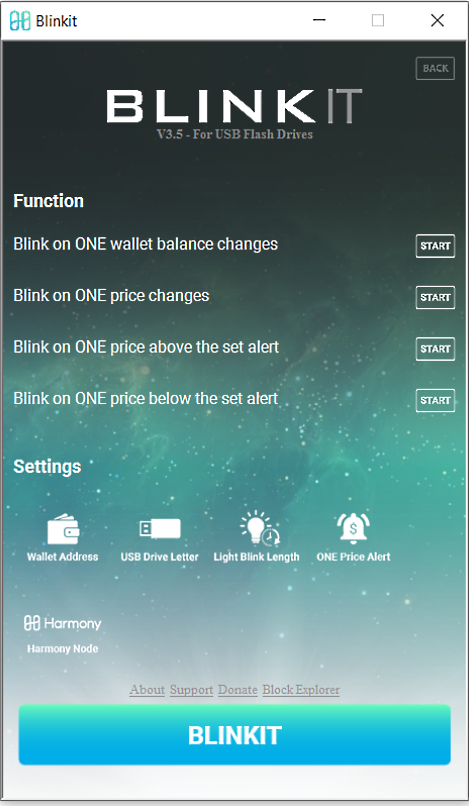
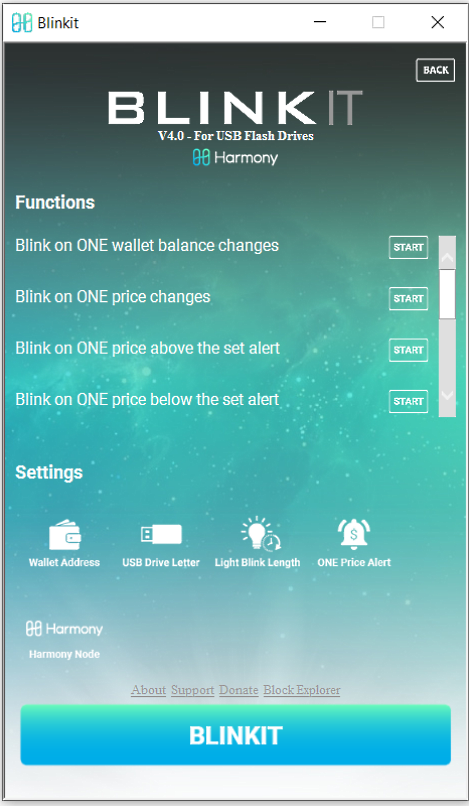
Website update
Website update

diff --git a/docs/index.html b/docs/index.html
@@ -55,6 +55,9 @@ https://github.com/techtek/Blinkit
 				<li class="nav-item">
                   <a class="nav-link" href="#Devices">Supported Devices</a>
 				</li>
+				<li class="nav-item">
+                  <a class="nav-link" href="#Donate">Donate</a>
+				</li>				
                 <li class="nav-item">
                   <a class="nav-link" href="#Contact">Contact</a>
                 </li>
@@ -139,7 +142,7 @@ https://github.com/techtek/Blinkit
                   <div class="icon text-white bg-success mr-5"><i class="fa fa-th"></i></div>
                   <div>
                       <h5>Blockchains</h5>
-                      <p>Currently Blinkit is available for 3 different blockchains: Steem, Hive, and the latest is developed for the Harmony blockchain. </p>
+                      <p>Blinkit is currently available for 3 different blockchains: Steem, Hive, and the latest version is developed specifically for the Harmony blockchain. </p>
                   </div>
                 </div>
               </div>
@@ -177,7 +180,7 @@ https://github.com/techtek/Blinkit
 	   
       <div class="blog section section-invert py-4">
         <h3 class="section-title text-center m-5">Supported Devices</h3>
-		<p class="text-muted col-md-6 text-center mx-auto">These devices can be blinked with Blinkit, more devices will be added later</p>
+		<p class="text-muted col-md-6 text-center mx-auto">These devices can be blinked with Blinkit, more devices will be added.</p>
         <div class="container">
           <div class="py-4">
             <div class="row">
@@ -189,7 +192,7 @@ https://github.com/techtek/Blinkit
                     <img class="card-img-top" src="images/common/usbflashdrive.jpg" alt="Card image cap">
                     <div class="card-body">
                       <h4 class="card-title">USB Flash Drives</h4>
-                      <p class="card-text">Any USB flash drive that have a status LED, independent of its brand or model can be used, most preferable will be a USB stick with a bright LED and a small form factor.</p>
+                      <p class="card-text">Any USB flash drive that have a status LED can be used, independent of its brand or model, most preferable will be a USB stick with a bright LED and a small form factor.</p>
 					  <p></p>
                       <!-- / <a class="btn btn-outline-success btn-pill" href="https://steemit.com/blinkit/@techtek/blinkit-or-usb-flash-notifications" target="_blank" >Read on Steemit &rarr;</a>  -->
                     </div>
@@ -204,7 +207,7 @@ https://github.com/techtek/Blinkit
                     <img class="card-img-top" src="images/common/logitech.jpg" alt="Card image cap">
                     <div class="card-body">
                       <h4 class="card-title">Keyboards</h4>
-                      <p class="card-text">Most keyboards and laptops have a num, scroll, and caps lock LED status light,independent of brand and model, Blinkit can blink them when blockchain actions are detected. </p>
+                      <p class="card-text">Most keyboards and laptops have a num, scroll, and caps lock LED status light, Blinkit can blink them independent of brand and model when blockchain actions are detected. </p>
                       		  <p></p>
 					  <!-- / <a class="btn btn-outline-success btn-pill" href="https://steemit.com/utopian-io/@flash4yard/blinkit-v2-3-or-blink-logitech-devices-on-steem-actions-backend" target="_blank" >Read on Steemit &rarr;</a>  -->
                     </div>
@@ -279,10 +282,10 @@ https://github.com/techtek/Blinkit
                         <img src="images/app-promo/blockchainharmony.png" class="w-100" alt="Testimonial Avatar" />
                     </div>
                     <h5 class="mb-1">Blinkit for Harmony</h5>
-                    <span class="text-muted d-block mb-2">Blinkit v3.8 | Windows 10 | GUI + CLI</span>
-					<span class="text-muted d-block mb-2">Features: Blink on ONE wallet balance changes, ONE price changes and ONE price alerts</span>
+                    <span class="text-muted d-block mb-2">Blinkit v4.0 | Windows 10 | GUI + CLI</span>
+					<span class="text-muted d-block mb-2">Features: Blink on ONE wallet balance changes, ONE price changes and alerts, epoch and more.</span>
 					<span class="text-muted d-block mb-2">Supported devices: USB flash drives, keyboard lights, smarthome devices (Tasmota)</span>
-					<span class="text-muted d-block mb-2"> <a href="">Release info</a></span>
+					<span class="text-muted d-block mb-2"> <a href="https://devpost.com/software/blinkit-ephtol">Release info</a></span>
 					<p></p>
                     <a class="btn btn-outline-success btn-pill" href="https://github.com/techtek/BlinkitHarmony/archive/master.zip" target="_blank" >Download &rarr;</a>					
                 </div>
@@ -302,10 +305,12 @@ https://github.com/techtek/Blinkit
 	 	<!-- / About  Section -->
       <div class="subscribe section bg-dark py-4">
         <h3 class="section-title text-center text-white m-5">About</h3>
-        <p class="text-muted col-md-6 text-center mx-auto">The Blinkit project Started in February 2018 on the Steem blockchain, it goals are to notify you with light and sound when blockchain action are detected. The supported devices are widely available, and the software is opensource and is made with a combination of batch scripts fo the back-end and HTML and CSS for the frontend.
+        <p class="text-muted col-md-6 text-center mx-auto">The Blinkit project started in February 2018 on the Steem blockchain, and later was made compatible for Hive it's goals are to notify it's users with light and sound when blockchain action are detected. The supported devices are widely available, and the software is opensource 
+		<br></br>
 					The Blinkit application is available for multiple blockchains, each version has functions specifically developed for that blockchain.
-					The development of Blinkit comes forward out of the passion for interacting with a variety of devices and blockchains.
-					To be able to develop the Blinkit project we will search for opportunities on blockchains and ask you to donate to Blinkit if you like the project, it will help the project to grow into its full potential.
+					The development of Blinkit comes forward out of the passion for devices, blockchains and technology and to make them interact and connect.
+		<br></br>				
+					To be able to develop the Blinkit project, we search for opportunities on blockchains and ask you to donate to Blinkit if you regularly use the software and like the project. Donations and participation will help the project to grow into its full potential.
 					</p>
 				
 			
@@ -325,7 +330,59 @@ https://github.com/techtek/Blinkit
 	  
 	  
 
+ <!-- Donate Section -->
+	  
+	  <A NAME="Donate">	  
+      <div class="testimonials section py-4">
 
+          <h3 class="section-title text-center m-5">Donate</h3>
+		          <p class="text-muted col-md-6 text-center mx-auto">Blinkit is provided at no cost. By donating, you will help the development of the Blinkit software and project. </p>
+          <div class="container py-5">
+            <div class="row">                
+				<div class="col-md-4 testimonial text-center">
+                    <div class="avatar rounded-circle with-shadows mb-3 ml-auto mr-auto">
+                        <img src="images/app-promo/blockchainsteem.png" class="w-100" alt="Testimonial Avatar" />
+                    </div>
+                    <h5 class="mb-1">STEEM or SBD</h5>
+                    <span class="text-muted d-block mb-2">Donation address:</span>
+					<span class="text-muted d-block mb-2">@techtek</span>
+					<p></p>
+                    <a class="btn btn-outline-success btn-pill" href="https://steemit.com/@techtek" target="_blank" >Donation page&rarr;</a>
+                </div>
+
+                <div class="col-md-4 testimonial text-center">
+                    <div class="avatar rounded-circle with-shadows mb-3 ml-auto mr-auto">
+                        <img src="images/app-promo/blockchainhive.png" class="w-100" alt="Testimonial Avatar" />
+                    </div>
+                    <h5 class="mb-1">HIVE or HBD</h5>
+                    <span class="text-muted d-block mb-2">Donation address:</span>
+					<span class="text-muted d-block mb-2">@techtek</span>
+					<p></p>
+                    <a class="btn btn-outline-success btn-pill" href="https://hive.blog/@techtek" target="_blank" >Donation page&rarr;</a>
+                </div>
+
+                <div class="col-md-4 testimonial text-center">
+                    <div class="avatar rounded-circle with-shadows mb-3 ml-auto mr-auto">
+                        <img src="images/app-promo/blockchainharmony.png" class="w-100" alt="Testimonial Avatar" />
+                    </div>
+                    <h5 class="mb-1">ONE</h5>
+                    <span class="text-muted d-block mb-2">Donation address:</span>
+					<span class="text-muted d-block mb-2">one1c8gqea48spdwk0qxr285fgshh6aew80xa4fmqv</span>
+					<p></p>
+                    <a class="btn btn-outline-success btn-pill" href="https://explorer.harmony.one/#/address/one1c8gqea48spdwk0qxr285fgshh6aew80xa4fmqv" target="_blank" >Donation page&rarr;</a>
+                </div>
+            </div>
+          </div>
+			
+			
+  
+
+			
+          </div>
+		   <br></br>	
+        </div>
+		
+	<!-- / Donate Section -->
 
 	  
 
@@ -335,7 +392,7 @@ https://github.com/techtek/Blinkit
 	<!-- / Latest Improvements Section -->
       <div class="subscribe section bg-dark py-4">
         <h3 class="section-title text-center text-white m-5">Project Developments</h3>
-        <p class="text-muted col-md-6 text-center mx-auto">News and activities.</p>
+        <p class="text-muted col-md-6 text-center mx-auto">Latest developments, news and activities.</p>
         <form class="form-inline d-table mb-5 mx-auto" action="/">
           <div class="form-group">
 		
@@ -349,11 +406,29 @@ https://github.com/techtek/Blinkit
 		<br></br>
 		<br></br>
 		<p><b>Blinkit joined the Harmony Hackathon</b></p>
-	    <a href="https://harmony.devpost.com/"><img src="images/app-promo/harmonyhackathon.jpg" alt="Harmony hackahon" width="auto" height="160"></a>
+	    <a href="https://devpost.com/software/blinkit-ephtol"><img src="images/app-promo/harmonyhackathon.jpg" alt="Harmony hackahon" width="auto" height="160"></a>
 		
+		<br></br>		
 		<br></br>
-			
-						
+		<br></br>
+		<br></br>
+		<p><b>Blinkit - Harmony branded USB flash drive prototype is in development to explore the possibilities of a custom device.</b></p>
+		
+		
+		<img src="images/app-promo/prototype1.png" alt="Harmony USB flash drive prototype" width="auto" height="225"></a>   &nbsp;
+		<img src="images/app-promo/prototype2.png" alt="Harmony USB flash drive prototype" width="auto" height="225"></a>
+		<br></br>
+		<img src="images/app-promo/prototype3.gif" alt="Harmony USB flash drive prototype" width="auto" height="200"></a>   &nbsp;
+		<img src="images/app-promo/prototype4.jpeg" alt="Harmony USB flash drive prototype" width="auto" height="200"></a>	
+		<br></br>
+		<img src="images/app-promo/prototype5.jpg" alt="Harmony USB flash drive prototype" width="auto" height="200"></a>   &nbsp;
+		<img src="images/app-promo/prototype6.jpg" alt="Harmony USB flash drive prototype" width="auto" height="200"></a>	&nbsp;
+		<img src="images/app-promo/prototype7.jpg" alt="Harmony USB flash drive prototype" width="auto" height="200"></a>	
+		<br></br>
+		<img src="images/app-promo/prototype8.jpg" alt="Harmony USB flash drive prototype" width="auto" height="200"></a>   &nbsp;
+		<img src="images/app-promo/prototype9.jpg" alt="Harmony USB flash drive prototype" width="auto" height="200"></a>	&nbsp;
+		<img src="images/app-promo/prototype10.jpg" alt="Harmony USB flash drive prototype" width="auto" height="200"></a>	
+		<br></br>			
           </div>
 		  
         </form>
@@ -367,7 +442,7 @@ https://github.com/techtek/Blinkit
 	  <A NAME="Contact">	  
       <div class="contact section-invert py-4">
         <h3 class="section-title text-center m-5">Get in contact</h3>
-					<p class="text-muted col-md-6 text-center mx-auto">Please join the Discord chat to get in contact, or if you need technical support.</p>
+					<p class="text-muted col-md-6 text-center mx-auto">Join the Discord chat to get in contact, if you need technical support, or want to participate.</p>
 
         <div class="container py-4">
           <div class="row justify-content-md-center px-4">				
@@ -376,7 +451,7 @@ https://github.com/techtek/Blinkit
 			
 	<center> 
 
-	<a href="https://discord.gg/73h8XqP" alt="Go to Discord"> <img src="images/app-promo/discord.png"  width="auto" height="75"  />			
+	<a href="https://discord.gg/73h8XqP" alt="Go to Discord"> <img src="images/app-promo/discord.png"  width="auto" height="60"  />			
 		
 	</center>
   
@@ -419,9 +494,12 @@ https://github.com/techtek/Blinkit
                 <li class="nav-item">
                   <a class="nav-link" href="#Download">Download</a>
                 </li>
+				<li class="nav-item">
+                  <a class="nav-link" href="#Donate">Donate</a>
+				</li>				
                 <li class="nav-item">
                   <a class="nav-link" href="#Contact">Contact</a>
-                </li>
+                </li>				
               </ul>
             </div>
           </div>

diff --git a/docs/nodemap/index.html b/docs/nodemap/index.html
@@ -14,12 +14,18 @@
   <div class="map-container">
     <img src="map.png">
 
-    <div class="point california tippy" title="<b>Steem</b> node by Steem | California | https://api.steemit.com "></div>
-    <div class="point portland tippy" title="<b>Harmony</b> node by Harmony | Portland | https://api.s0.t.hmny.io"></div>
-    <div class="point amsterdam tippy" title="<b>Hive</b> node by @roelandp | Amsterdam | https://hive.roelandp.nl"></div>     
-    <div class="point farnham tippy" title="<b>Harmony</b> Testnet node by Harmony | London | https://api.s0.b.hmny.io"></div>     
-    <div class="point albion tippy" title="<b>Hive</b> node by @blocktrades | Albion |  https://api.hive.blog"></div>     
 
+	<div class="point portland tippy" title="<b>Harmony</b> node by Harmony | Portland | https://api.s0.t.hmny.io"></div>
+	<div class="point farnham tippy" title="<b>Harmony</b> Testnet node by Soph | London | https://api.s0.b.hmny.io"></div> 
+	<div class="point virginia tippy" title="<b>Harmony</b> node by Janet Liang | Virginia |  https://api.s2.t.hmny.io/"></div>  
+    <div class="point tokyo tippy" title="<b>Harmony</b> node by Janet Liang | Tokyo |  https://api.s3.t.hmny.io/"></div> 
+	
+  	<div class="point amsterdam tippy" title="<b>Hive</b> node by @roelandp | Amsterdam | https://hive.roelandp.nl"></div>       
+    <div class="point albion tippy" title="<b>Hive</b> node by @blocktrades | Albion |  https://api.hive.blog"></div>   
+
+	<div class="point california tippy" title="<b>Steem</b> node by Steem | California | https://api.steemit.com "></div>
+    
+	
   </div>
 </div>
 <!-- partial -->

diff --git a/docs/nodemap/style.css b/docs/nodemap/style.css
@@ -35,6 +35,10 @@ body {
   transform: translate(-50%, -50%) scale3D(1.35, 1.35, 1);
   box-shadow: 0 3px 6px rgba(0, 0, 0, 0.16), 0 3px 6px rgba(0, 0, 0, 0.23);
 }
+
+
+
+
 .map-container .venezuela {
   top: 54%;
   left: 24%;
@@ -59,9 +63,9 @@ body {
   top: 28%;
   left: 9%;
 }
-.map-container .usa {
-  top: 26%;
-  left: 17%;
+.map-container .virginia {
+  top: 32%;
+  left: 22%;
 }
 .map-container .arabia {
   top: 40%;
@@ -79,7 +83,7 @@ body {
   top: 40%;
   left: 72%;
 }
-.map-container .japon {
+.map-container .tokyo {
   top: 34%;
   left: 86%;
 }

diff --git a/docs/css/shards-extras.css b/docs/css/shards-extras.css
@@ -84,7 +84,7 @@
   left: 0;
   right: 0;
   bottom: 0;
-  opacity: .8;
+  opacity: .7;
   background: #000000;
 }
 
